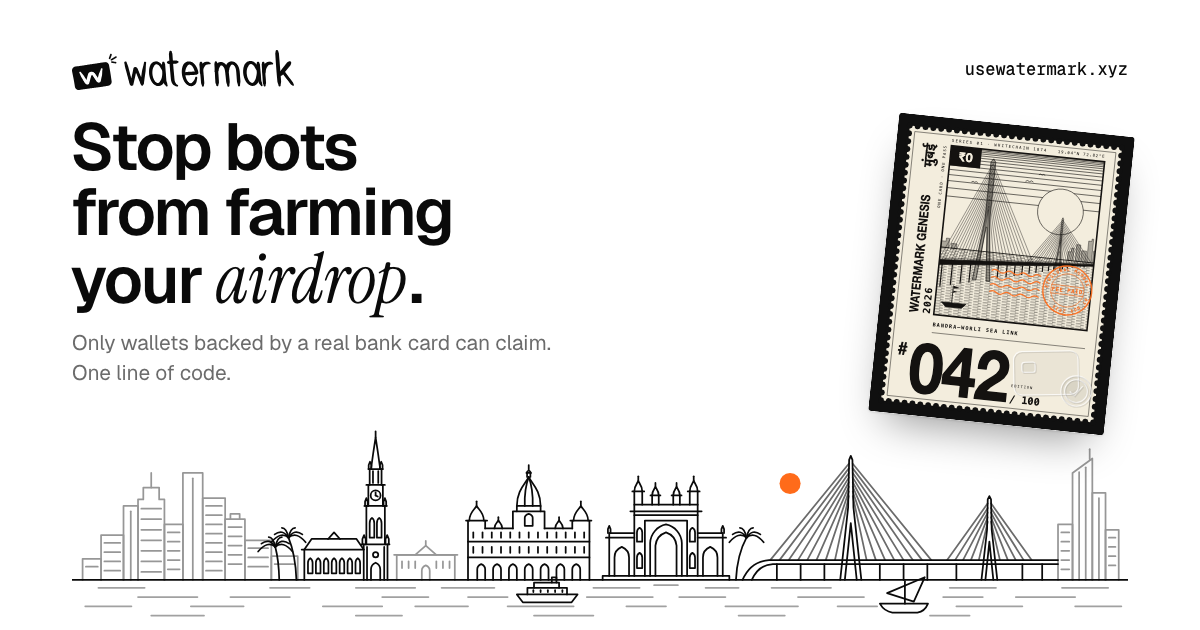
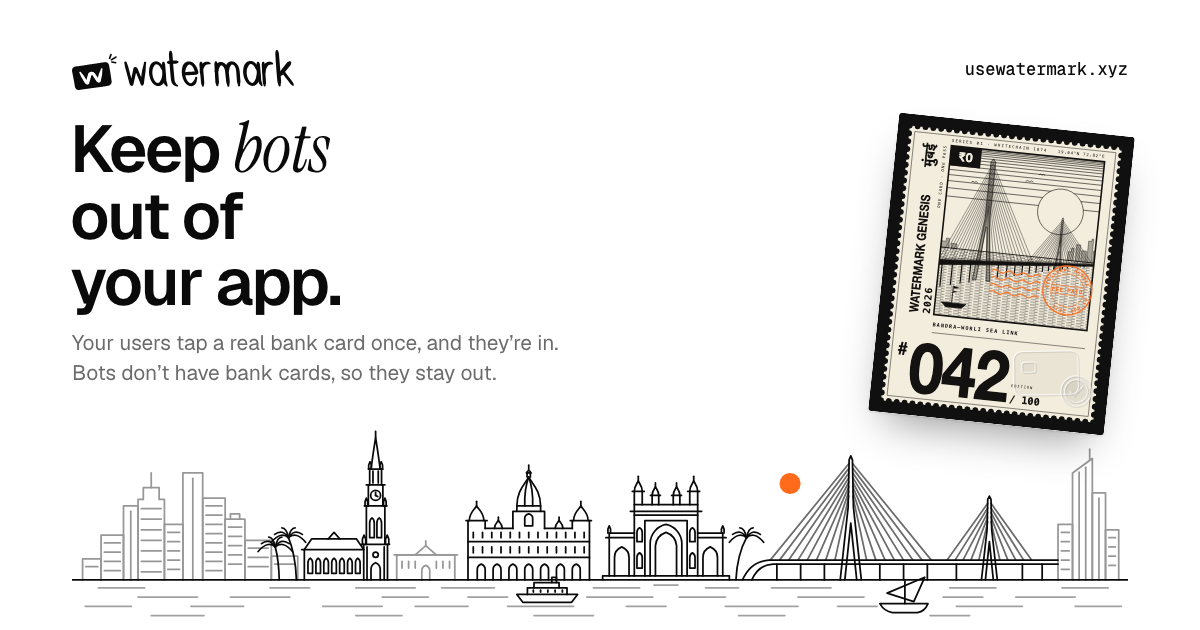
web: bot protection for any app, in plain human words

Changed region(s): [[0.0617, 0.181, 0.4625, 0.6032]]

diff --git a/web/src/app/_builders/copy.ts b/web/src/app/_builders/copy.ts
@@ -10,9 +10,9 @@
 // ------------------------------------------------------------------ 1. Hero
 
 export const HERO = {
-  eyebrow: "Anti-bot for airdrops, mints and rewards",
-  title: "Stop bots from farming your *airdrop*.",
-  sub: "Your users tap a real bank card on their phone. Only those wallets can claim. No KYC. No gas.",
+  eyebrow: "Bot protection for any onchain app",
+  title: "Keep *bots* out of your app.",
+  sub: "Your users tap their bank card on their phone once, and their wallet gets a stamp. Bots can make endless wallets, but they can't make bank cards, so they never get in. No KYC, and no gas fees for your users.",
   add: { label: "Add it to my app", href: "#add" },
   /** SITE_FINAL's "Try the live drop" only while the drop is open (PASS_LIVE); until then it doesn't say "live". */
   drop: { label: "Try our drop", soonLabel: "Try our drop", href: "/pass" },
@@ -22,6 +22,23 @@ export const HERO = {
 export function heroDropLabel(passLive: boolean): string {
   return passLive ? HERO.drop.label : HERO.drop.soonLabel;
 }
+
+// ------------------------------------------------------------------ 1b. Where it works
+
+export const USES_TITLE = "Anywhere bots cost you *money*.";
+export const USES_LEAD = "A bot can make a thousand wallets in a minute, but it can't make a thousand bank cards. That one fact protects all of these.";
+
+export const USES: readonly { title: string; body: string; icon: "ticket" | "coin" | "wallet" | "check" | "building" | "agent" }[] = [
+  { title: "Airdrops and mints", body: "Each real card gets one claim, so someone with 1,000 wallets gets nothing extra.", icon: "ticket" },
+  { title: "Gas you sponsor", body: "You only pay gas for stamped wallets, so bots can't burn through your budget.", icon: "coin" },
+  { title: "Faucets", body: "Free test tokens go to people with real cards, not to scripts.", icon: "wallet" },
+  { title: "Rewards and referrals", body: "Points, quests and referral bonuses go to real users instead of bot farms.", icon: "check" },
+  { title: "Votes and grants", body: "Every voter needs a real card, so faking a crowd gets expensive fast.", icon: "building" },
+  { title: "AI agents", body: "Your AI agent can check a wallet before it sends money or gives access.", icon: "agent" },
+];
+
+/** The one function behind every use above (the registry's view, docs/INTEGRATE.md). */
+export const USES_CHECK = "isStamped(wallet, appId)";
 
 // ------------------------------------------------------------------ 2. How it works
 
@@ -36,25 +53,25 @@ export interface HowStep {
 export const HOW_TITLE = "How it *works*.";
 
 export const HOW_STEPS: readonly HowStep[] = [
-  { title: "You add one line", body: "In your contract, your server or your AI agent.", icon: "code" },
+  { title: "You add one line", body: "Put one check in your contract, your server or your AI agent.", icon: "code" },
   {
     title: "Users tap their card",
-    body: "Once, on our Android app. A private proof checks the card is real.",
+    body: "They tap their bank card on our Android app once, and a private proof checks that it's real.",
     icon: "tap",
   },
-  { title: "Bots get refused", body: "No real card, no claim. One card claims once.", icon: "shield" },
+  { title: "Bots get refused", body: "No real card means no stamp, and no stamp means no way in.", icon: "shield" },
 ];
 
 // ------------------------------------------------------------------ 3. Add it
 
 export const ADD_TITLE = "Add it in *one line*.";
-export const ADD_LEAD = "Solidity, TypeScript or your AI agent. No API key. No sign-up.";
+export const ADD_LEAD = "Use Solidity, TypeScript or your AI agent. There's no API key and nothing to sign up for.";
 
 /** Each block's words. The code itself is docs/INTEGRATE.md's and mcp/README.md's, verbatim (snippets.ts, mcp-data.ts). */
 export const ADD_BLOCKS = {
   solidity: {
     title: "Solidity",
-    body: "One call in your contract. No stamp, no claim.",
+    body: "Add one modifier to your contract, and wallets without a stamp get turned away.",
     label: "Solidity · onlyStamped",
     /** The one line: the modifier on your own function (How step 1 shows the same). */
     useLabel: "Your contract: the one line",
@@ -62,13 +79,13 @@ export const ADD_BLOCKS = {
   },
   sdk: {
     title: "TypeScript SDK",
-    body: "Check one wallet, or 200 at once. It reads the chain directly.",
+    body: "Check one wallet or 200 at once. It reads straight from the chain.",
     note: "The SDK lives in the repo (sdk/). It isn't on npm yet.",
     label: "TypeScript · @watermark/sdk",
   },
   mcp: {
     title: "AI agents (MCP)",
-    body: "Your agent checks wallets before it pays a reward. It holds no keys and sees no card data.",
+    body: "Your agent can check wallets before it pays anyone. It holds no keys and never sees card data.",
     label: "MCP client config (JSON)",
   },
 } as const;
@@ -81,7 +98,7 @@ export const TEST_TITLE = "Try to *farm* it.";
 
 /** The body line, with /attack's real bot count. */
 export function botTestLead(count: number): string {
-  return `We send ${count} bot wallets at our own drop. Watch every one get refused. Real requests, live.`;
+  return `Press the button and we'll send ${count} bot wallets at our own drop. You'll watch every one of them get turned away, and these are real requests.`;
 }
 
 export const TEST_CTA = { label: "Run the bot test", href: "/attack" } as const;
@@ -89,7 +106,7 @@ export const TEST_CTA = { label: "Run the bot test", href: "/attack" } as const;
 // ------------------------------------------------------------------ 5. You stay in control
 
 export const CONTROL_TITLE = "You decide who *counts*.";
-export const CONTROL_LEAD = "Use our card list or bring your own. Every list is public.";
+export const CONTROL_LEAD = "You can use our card list or bring your own. Either way, the list is public.";
 
 /** The parts of lib/policy-summary.ts's PolicySummary this section needs. */
 export interface ControlPolicy {
@@ -152,7 +169,7 @@ export function controlFacts(p: ControlPolicy | null): ControlFact[] {
       title: months ? `Stamps last up to ${months} ${months === 1 ? "month" : "months"}` : "Stamps expire",
       line: "One card, one wallet per app.",
     },
-    { key: "store", icon: "lock", title: "Nothing to store", line: "No KYC files. No card numbers." },
+    { key: "store", icon: "lock", title: "Nothing to store", line: "You never hold KYC files or card numbers." },
   ];
 }
 
@@ -189,7 +206,7 @@ export const OWN_LIST = "Use your own card list";
 // ------------------------------------------------------------------ 6. Proof
 
 export const PROOF_TITLE = "See it *yourself*.";
-export const PROOF_LEAD = "Every step is on a public chain. Tap one to check it.";
+export const PROOF_LEAD = "Everything below happened on a public chain. Tap any card to check it yourself.";
 
 // ------------------------------------------------------------------ 7. Privacy and limits
 
@@ -202,20 +219,20 @@ export const PRIVACY_EYEBROW = "Privacy and limits";
  * Never claim the data stays on the phone.
  */
 export const PRIVACY_ROWS: readonly { label: string; text: string }[] = [
-  { label: "We see, for a moment", text: "Your card data, to make the proof. Then we wipe it." },
-  { label: "We store", text: "Nothing from your card." },
-  { label: "On-chain", text: "A proof, a one-way card ID, your wallet and an end date." },
+  { label: "What we see", text: "Your card data, just long enough to make the proof. Then we wipe it." },
+  { label: "What we keep", text: "Nothing from your card." },
+  { label: "What goes on-chain", text: "A proof, a one-way card ID, your wallet and an end date." },
 ];
 
-export const PRIVACY_TRUST = "You trust us on the wipe. Proving on the phone fixes that. It is next.";
+export const PRIVACY_TRUST = "For now, you have to trust us to wipe it. Making the proof on the phone itself fixes that, and it's next on our list.";
 
 /** "Good to know" (docs/INTEGRATE.md "Limits" and "Which cards work today"). */
 export const GOOD_TO_KNOW: readonly string[] = [
   // "Visa and Mastercard: coming soon" is said once, in "You stay in control".
-  "Only Indian RuPay debit cards work today.",
-  "Test networks only, for now.",
-  "One card, one wallet per app. No reset.",
-  "A stamp is not KYC. Two cards make two stamps.",
-  "There is no PIN, so a stamp proves a real card, not who holds it.",
+  "Right now, only RuPay debit cards from India work.",
+  "Everything runs on test networks for now.",
+  "One card works for one wallet per app, and it can't be reset.",
+  "A stamp isn't KYC. Someone with two cards can get two stamps.",
+  "There's no PIN, so a stamp shows someone had a real card, not who they are.",
 ];
 

diff --git a/web/src/app/_builders/builders.test.ts b/web/src/app/_builders/builders.test.ts
@@ -57,11 +57,11 @@ const LIVE_POLICY: ControlPolicy = {
 // ------------------------------------------------------------------ SITE_FINAL "Page 1", word for word
 
 test("hero: SITE_FINAL eyebrow, H1, sub and both pills", () => {
-  assert.equal(HERO.eyebrow, "Anti-bot for airdrops, mints and rewards");
-  assert.equal(HERO.title, "Stop bots from farming your *airdrop*.");
+  assert.equal(HERO.eyebrow, "Bot protection for any onchain app");
+  assert.equal(HERO.title, "Keep *bots* out of your app.");
   assert.equal(
     HERO.sub,
-    "Your users tap a real bank card on their phone. Only those wallets can claim. No KYC. No gas.",
+    "Your users tap their bank card on their phone once, and their wallet gets a stamp. Bots can make endless wallets, but they can't make bank cards, so they never get in. No KYC, and no gas fees for your users.",
   );
   assert.deepEqual(HERO.add, { label: "Add it to my app", href: "#add" });
   assert.deepEqual(HERO.drop, { label: "Try our drop", soonLabel: "Try our drop", href: "/pass" });
@@ -75,9 +75,9 @@ test("how it works: the headline and three steps", () => {
   assert.deepEqual(
     HOW_STEPS.map((s) => [s.title, s.body, s.icon]),
     [
-      ["You add one line", "In your contract, your server or your AI agent.", "code"],
-      ["Users tap their card", "Once, on our Android app. A private proof checks the card is real.", "tap"],
-      ["Bots get refused", "No real card, no claim. One card claims once.", "shield"],
+      ["You add one line", "Put one check in your contract, your server or your AI agent.", "code"],
+      ["Users tap their card", "They tap their bank card on our Android app once, and a private proof checks that it's real.", "tap"],
+      ["Bots get refused", "No real card means no stamp, and no stamp means no way in.", "shield"],
     ],
   );
 });
@@ -96,7 +96,7 @@ test("section headlines", () => {
 test("the bot test line uses /attack's own bot count", () => {
   assert.equal(
     botTestLead(BOT_COUNT),
-    `We send ${BOT_COUNT} bot wallets at our own drop. Watch every one get refused. Real requests, live.`,
+    `Press the button and we'll send ${BOT_COUNT} bot wallets at our own drop. You'll watch every one of them get turned away, and these are real requests.`,
   );
   assert.equal(BOT_COUNT, 5);
   assert.deepEqual(TEST_CTA, { label: "Run the bot test", href: "/attack" });
@@ -112,7 +112,7 @@ test("control facts read SITE_FINAL's lines with the live list's own numbers", (
       ["Which cards count", "4,208 RuPay bank debit ranges from India. No prepaid cards, because anyone can buy many."],
       ["Sponsor your users' fees", "They pay $0, up to 20 payments a day each."],
       ["Stamps last up to 3 months", "One card, one wallet per app."],
-      ["Nothing to store", "No KYC files. No card numbers."],
+      ["Nothing to store", "You never hold KYC files or card numbers."],
     ],
   );
   assert.equal(LIVE_POLICY.prefixCount, 4208);

diff --git a/web/src/app/_builders/uses.tsx b/web/src/app/_builders/uses.tsx
@@ -1,0 +1,37 @@
+import { LineIcon } from "@/app/_art";
+import { USES, USES_CHECK, USES_LEAD, USES_TITLE } from "./copy.ts";
+import { BAND, SectionHead, WRAP } from "./kit";
+
+/*
+ * "Anywhere bots cost you *money*." (id="uses"): what Watermark is for, beyond one airdrop. Six plain cards (three
+ * across from 900px, two on tablets, one on phones), then the one function every use shares. Server component, no JS.
+ */
+export function Uses() {
+  return (
+    <section id="uses" aria-labelledby="uses-title" className={BAND}>
+      <div className={WRAP}>
+        <SectionHead id="uses" eyebrow="What it stops" title={USES_TITLE} lead={USES_LEAD} />
+
+        <ul className="mt-12 grid grid-cols-1 gap-4 sm:mt-16 sm:grid-cols-2 sm:gap-6 min-[56.25rem]:grid-cols-3">
+          {USES.map((u) => (
+            <li key={u.title} className="flex min-w-0 flex-col rounded-card bg-surface p-6 sm:p-8">
+              <span
+                aria-hidden="true"
+                className="grid size-12 shrink-0 place-items-center rounded-full bg-white text-ink ring-1 ring-black/[0.05]"
+              >
+                <LineIcon name={u.icon} size={24} />
+              </span>
+              <h3 className="mt-6 text-[22px] font-semibold leading-[1.15] tracking-[-0.025em] sm:text-2xl">{u.title}</h3>
+              <p className="mt-2 text-pretty text-base leading-relaxed text-muted sm:text-[17px]">{u.body}</p>
+            </li>
+          ))}
+        </ul>
+
+        <p className="mt-8 text-pretty text-base text-muted sm:mt-10">
+          Behind all of them is the same one-line check:{" "}
+          <code className="rounded-md bg-surface px-2 py-1 font-mono text-[0.92em] text-ink">{USES_CHECK}</code>
+        </p>
+      </div>
+    </section>
+  );
+}

diff --git a/web/src/app/_builders/agent-prompt-text.ts b/web/src/app/_builders/agent-prompt-text.ts
@@ -14,11 +14,11 @@ export const DOCS_URL = "https://usewatermark.xyz/watermark.txt";
 /** The verify page an unstamped user is sent to (the SDK's verifyLink and watermark_create_verify_link format). */
 export const VERIFY_URL = "https://usewatermark.xyz/verify?app=<YOUR_APP_ID>";
 
-export const AGENT_PROMPT = `Add Watermark anti-bot gating to this project. A Watermark stamp means a wallet was linked to one real bank card. Only stamped wallets may claim our airdrops, mints and rewards.
+export const AGENT_PROMPT = `Add Watermark anti-bot gating to this project. A Watermark stamp means a wallet was linked to one real bank card. Only stamped wallets may get what this app gives away or protects: airdrops, mints, rewards, faucet tokens, sponsored gas, votes or access.
 
 1. Read ${DOCS_URL} first. Use only the addresses, functions and tool names it gives. Don't invent any.
 
-2. Find every place this repo pays out: airdrop claims, mints, rewards, allowlists. Check whether they live in Solidity contracts, a TypeScript/JavaScript backend, or both.
+2. Find every place this repo gives something away or lets a wallet in: airdrop claims, mints, rewards, faucets, sponsored gas, votes, allowlists. Check whether they live in Solidity contracts, a TypeScript/JavaScript backend, or both.
 
 3. App id: <YOUR_APP_ID> below is a placeholder; keep it in one config constant. For real RuPay bank cards, set it to the live app id: ${LIVE_APP.appId}. Register our own app only if we want our own card list: draft it with watermark_draft_policy, then watermark_prepare_register_app (unsigned; I send it, and we must run our own session signer). Tell me which you chose and why.
 

diff --git a/web/src/app/layout.tsx b/web/src/app/layout.tsx
@@ -19,7 +19,7 @@ const instrumentSerif = Instrument_Serif({
 export const metadata: Metadata = {
   title: "Watermark · Real people leave a mark",
   description:
-    "Watermark lets only wallets backed by a real bank card claim. Add it with one line. No KYC. Your users pay no fees.",
+    "Keep bots out of your onchain app. Your users tap a real bank card once to get a stamp, and bots can't. It works for airdrops, sponsored gas, faucets, rewards, votes and AI agents. No KYC.",
   referrer: "no-referrer",
   // Absolute URLs for the share images (opengraph-image.png / twitter-image.png in this folder).
   metadataBase: new URL("https://usewatermark.xyz"),
@@ -29,13 +29,13 @@ export const metadata: Metadata = {
     siteName: "Watermark",
     url: "https://usewatermark.xyz",
     title: "Watermark · Real people leave a mark",
-    description: "Only wallets backed by a real bank card can claim. One line of code. No KYC. Users pay no fees.",
+    description: "Your users tap a real bank card once, and they're in. Bots don't have bank cards, so they stay out.",
   },
   twitter: {
     card: "summary_large_image",
     site: "@usewatermark",
     title: "Watermark · Real people leave a mark",
-    description: "Only wallets backed by a real bank card can claim. One line of code. No KYC. Users pay no fees.",
+    description: "Your users tap a real bank card once, and they're in. Bots don't have bank cards, so they stay out.",
   },
 };
 

diff --git a/web/src/app/page.tsx b/web/src/app/page.tsx
@@ -10,9 +10,10 @@ import { BuildersHero } from "./_builders/hero";
 import { How } from "./_builders/how";
 import { Privacy } from "./_builders/privacy";
 import { Proof } from "./_builders/proof";
+import { Uses } from "./_builders/uses";
 
 export const metadata: Metadata = {
-  title: "Watermark · Stop bots from farming your airdrop",
+  title: "Watermark · Keep bots out of your app",
   description: HERO.sub,
 };
 
@@ -29,6 +30,7 @@ export default function Home() {
   return (
     <main className="overflow-x-clip">
       <BuildersHero />
+      <Uses />
       <How />
       <Add liveLabel={policy?.label ?? LIVE_APP.label} />
       <AgentPrompt />

diff --git a/web/src/app/_builders/hero-gate-data.ts b/web/src/app/_builders/hero-gate-data.ts
@@ -27,9 +27,9 @@ export const GATE_STAMP = {
 } as const;
 
 export const GATE = {
-  title: "Airdrop claims",
+  title: "Who gets in",
   example: "Example",
-  rule: "Only stamped wallets can claim.",
+  rule: "Only wallets with a stamp get through.",
   refused: "Refused · no stamp",
   claimed: `Claimed #${GATE_STAMP.edition} · stamped wallet`,
   stampAlt: `Genesis Drop stamp #${GATE_STAMP.edition} of ${GATE_STAMP.of}: a Mumbai postage stamp of the Bandra–Worli Sea Link`,
